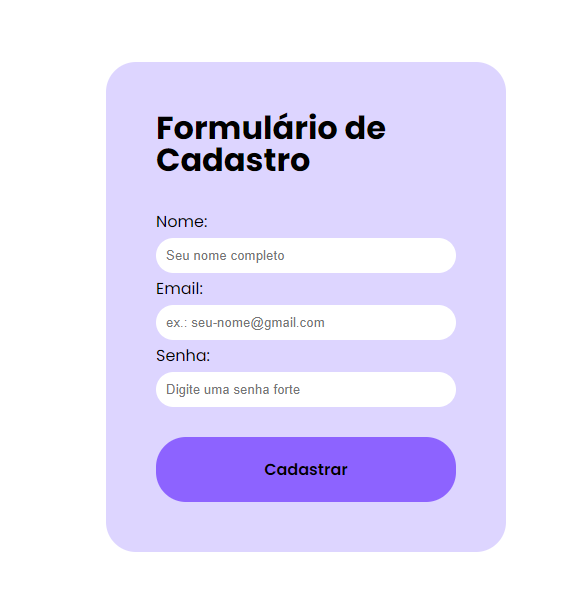
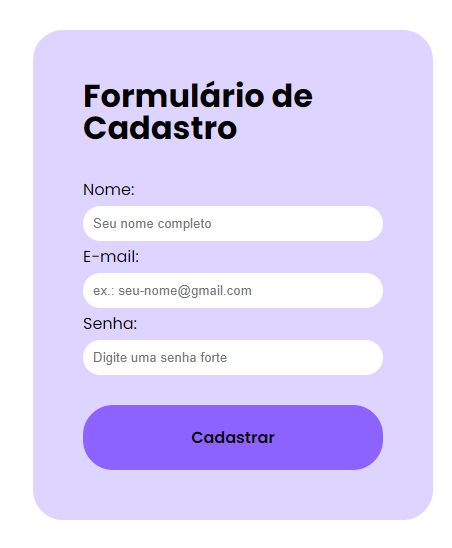
Atualização Correção Tutor 	modified:   image-1.png 	modified:   index.html 	modified:   style.css

diff --git a/index.html b/index.html
@@ -1,30 +1,30 @@
 <!DOCTYPE html>
-<html lang="en">
+<html lang="pt-br">
     <head>
         <meta charset="UTF-8" />
         <meta name="viewport" content="width=device-width, initial-scale=1.0" />
-        <title>Document</title>
+        <title>Formulário de Cadastro</title>
         <link rel="stylesheet" href="./style.css" />
     </head>
     <body>
         <div class="form">
             <h1>Formulário de Cadastro</h1>
-            <form action="/login" method="post">
+            <form>
                 <label for="username">Nome:</label>
                 <input
                     type="text"
                     id="username"
                     name="username"
-                    required
                     placeholder="Seu nome completo"
+                    required
                 />
-                <label for="email">Email:</label>
+                <label for="email">E-mail:</label>
                 <input
                     type="email"
                     id="email"
                     name="email"
-                    required
                     placeholder="ex.: seu-nome@gmail.com"
+                    required
                 />
 
                 <label for="password">Senha:</label>
@@ -32,11 +32,11 @@
                     type="password"
                     id="password"
                     name="password"
-                    required
                     placeholder="Digite uma senha forte"
+                    required
                 />
 
-                <input type="submit" id="submit" value="Cadastrar" />
+                <button type="submit" id="submit">Cadastrar</button>
             </form>
         </div>
     </body>

diff --git a/style.css b/style.css
@@ -39,7 +39,7 @@ input#password {
     border-radius: 20px;
     padding: 10px;
 }
-input#submit {
+button#submit {
     background-color: #8d63ff;
     border: none;
     padding: 20px;
